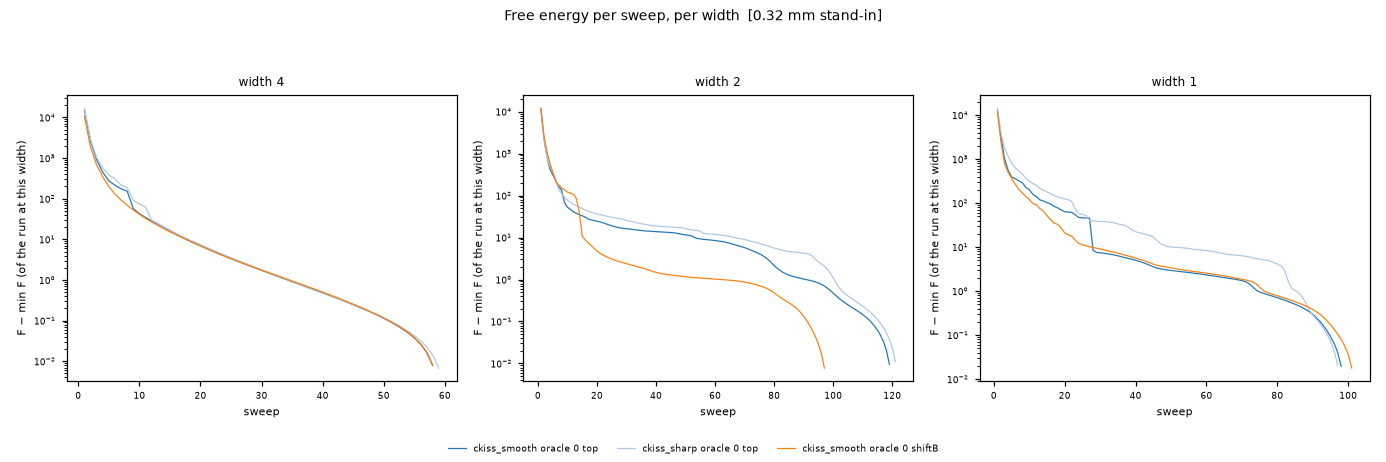
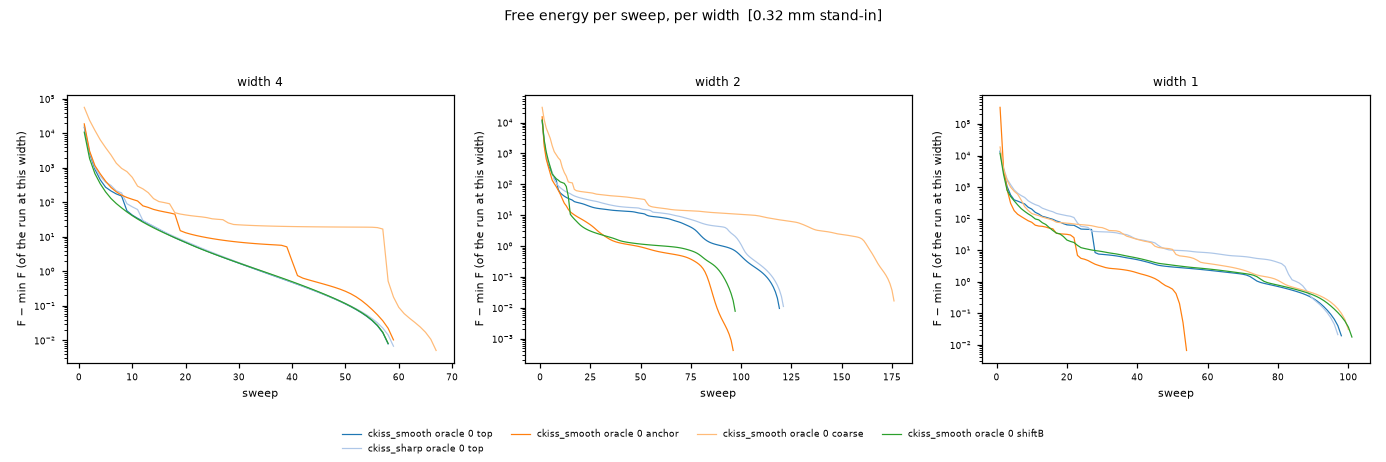
docs(ff): question 6 from the anchor and coarse stand-ins (PR 4)

diff --git a/reports/Flow-field phantoms.md b/reports/Flow-field phantoms.md
@@ -23,8 +23,8 @@ Table 1. The PR 4 matrix and the state of each run (0.32 mm stand-in stage).
 | ckiss_smooth | oracle | 0 | top | done at 0.32 mm (stand-in) |
 | ckiss_sharp | oracle | 0 | top | done at 0.32 mm (stand-in) |
 | ckiss_smooth | oracle | 0 | shiftB (R6) | done at 0.32 mm (stand-in) |
-| ckiss_smooth | oracle | 0 | anchor (Q6) | running at 0.32 mm |
-| ckiss_smooth | oracle | 0 | coarse first (Q6) | running at 0.32 mm |
+| ckiss_smooth | oracle | 0 | anchor (Q6) | done at 0.32 mm (stand-in; 2566 s, 2.33 GB) |
+| ckiss_smooth | oracle | 0 | coarse first (Q6) | done at 0.32 mm (stand-in; 5152 s, 2.42 GB) |
 | ckiss_smooth | oracle | 0 | top, 0.16 mm | running since 06:14 (heavy run) |
 | all four ckiss phantoms | image | 0 and 1 | top | not run: time |
 | all four ckiss phantoms | oracle | 1 | top | not run: time |
@@ -170,7 +170,23 @@ the speed prior, not at the grid.
 
 ### Question 6: the origin of τ
 
-**No result yet.** The anchor stand-in and the coarse-first stand-in are running.
+The plan expects the same levels after one constant, and fewer sweeps with the top origin.
+
+Table 8. Question 6 (0.32 mm stand-in, ckiss_smooth, oracle, noise 0).
+
+| run | sweeps per width (fine grid) | other sweeps | result |
+|---|---|---|---|
+| top origin | 59 / 120 / 99 (278) | — | reference |
+| anchor origin | 60 / 97 / 55 (212) | — | τ_anchor = τ_top + c, c = 1.31, over 151,687 nodes moving in both runs: \|residual\| 0.0028 / 0.0075 / 0.30 (median / p90 / max). Level points after c: 0.0069 / 0.030 / 0.19 mm apart (16,625 of 26,181 found in both runs) |
+| top origin, coarse grid first | 68 / 177 / 101 (346) | 0.64 mm solve: 189 / 60 / 20 | CONTACT stop error median 0.34 / 0.26 mm (bank A / B), against 0.27 / 0.17 without the coarse grid; direction against ∇τ median 5.3°, against 1.9° |
+
+- The levels agree after one constant. This supports R4.
+- The anchor run needs fewer sweeps than the top run (212 against 278). The plan expects the opposite. This does not support the plan's claim that the top origin converges faster.
+- The coarse grid first needs more sweeps on the fine grid (346 against 278), and ends at a different field. So the warm start from 0.64 mm does not help here. Every width of every stand-in ended by the free-energy tolerance.
+- The anchor run and the coarse run were measured from the roots (commit 518aca3 for the coarse run; the anchor run was re-measured).
+
+![Q6: the anchor run against the top run](figures/flow-field-phantoms/kiss_q6_ckiss_smooth_oracle_0_u0.32.png)
+
 
 - The plan's coarse grid is an initial field only, not a prior (CD-9). So the sweep
   comparison measures a warm start. The 0.64 mm first stage carries a different FEM
@@ -221,7 +237,7 @@ Evidence for every row: 0.32 mm stand-in only; 0.16 mm pending. R8–R10 are not
 | R1 stop as a node state | stops on the own side of the slot plane (≥ 0.991); no cortex node stopped at the open slot | CONTACT stops early by 0.12–0.29 mm (median); PIA 0.08–0.09 mm | not decided: the stop error and the sheet are at the scale of the spacing; no image run |
 | R2 speed to zero at the stop, τ jumps to τ_top | — | the integrator's jump −τ_arrival is positive at all stops: 2672 of 2672 (smooth; median 0.33), 2994 of 2994 (sharp), 2581 of 2581 (shiftB), also at the pia | seen, with a caveat: τ at the q_stop = 0.5 crossing comes from the last moving nodes, up to one spacing below the stop (masked interpolation). It can measure the integrator, not the solver's jump state. A likely cause is that of CD-12. The provisional change for R2 (#208) failed again; its diagnosis agrees: the column jump is −τ_arrival from the masked interpolation, and the stop boundary sits beyond the pia because of the entropy of the moving candidates |
 | R3 jump prior near zero | — | as R2 | seen, with the caveat of R2 |
-| R4 τ_top = 0 as origin | — | — | not decided: Q6 pending |
+| R4 τ_top = 0 as origin | the anchor run gives the same levels after one constant (\|residual\| median 0.003, p90 0.0075) | the top origin does not need fewer sweeps (278 against 212 with the anchor); the coarse grid first needs more (346) | different levels: not seen. Sweeps: the top origin needs 31 % more than the anchor (278 against 212); whether this is "many more sweeps" is for the user |
 | R5 no overlap | overlap 0; contact crossings 0 on the true paths | contact crossings 1, 1, 3, all bank B. Each crossing column starts at its root in bank B, far from the fundus (local y 4.2–6.4 mm): not a start effect. Four of the five end STOPPED 0.000–0.010 mm past the far face of the fused slot (g = 0.02 mm): they overshoot the contact by less than 1/16 voxel. The fifth (shiftB) ends STOPPED inside the slot at local z = 0.74 mm, where g = 0.092 mm (the window of the gap's end): 0.024 mm past the slot plane, 0.068 mm before the far face. No crossing column runs on into bank A | seen (count above zero), small |
 | R6 no interpolation across the stop boundary | bank A changes less than bank B | bank A changes when only bank B changes (Table 7) | seen |
 | R7 non-crossing, sinks checked | sinks 0, sink columns 0, focal points 0, overlap 0 | reversed edges 3, 3, 13 (their places against the stop set are not checked here) | not seen for sinks, focal points and overlap at this grid |
